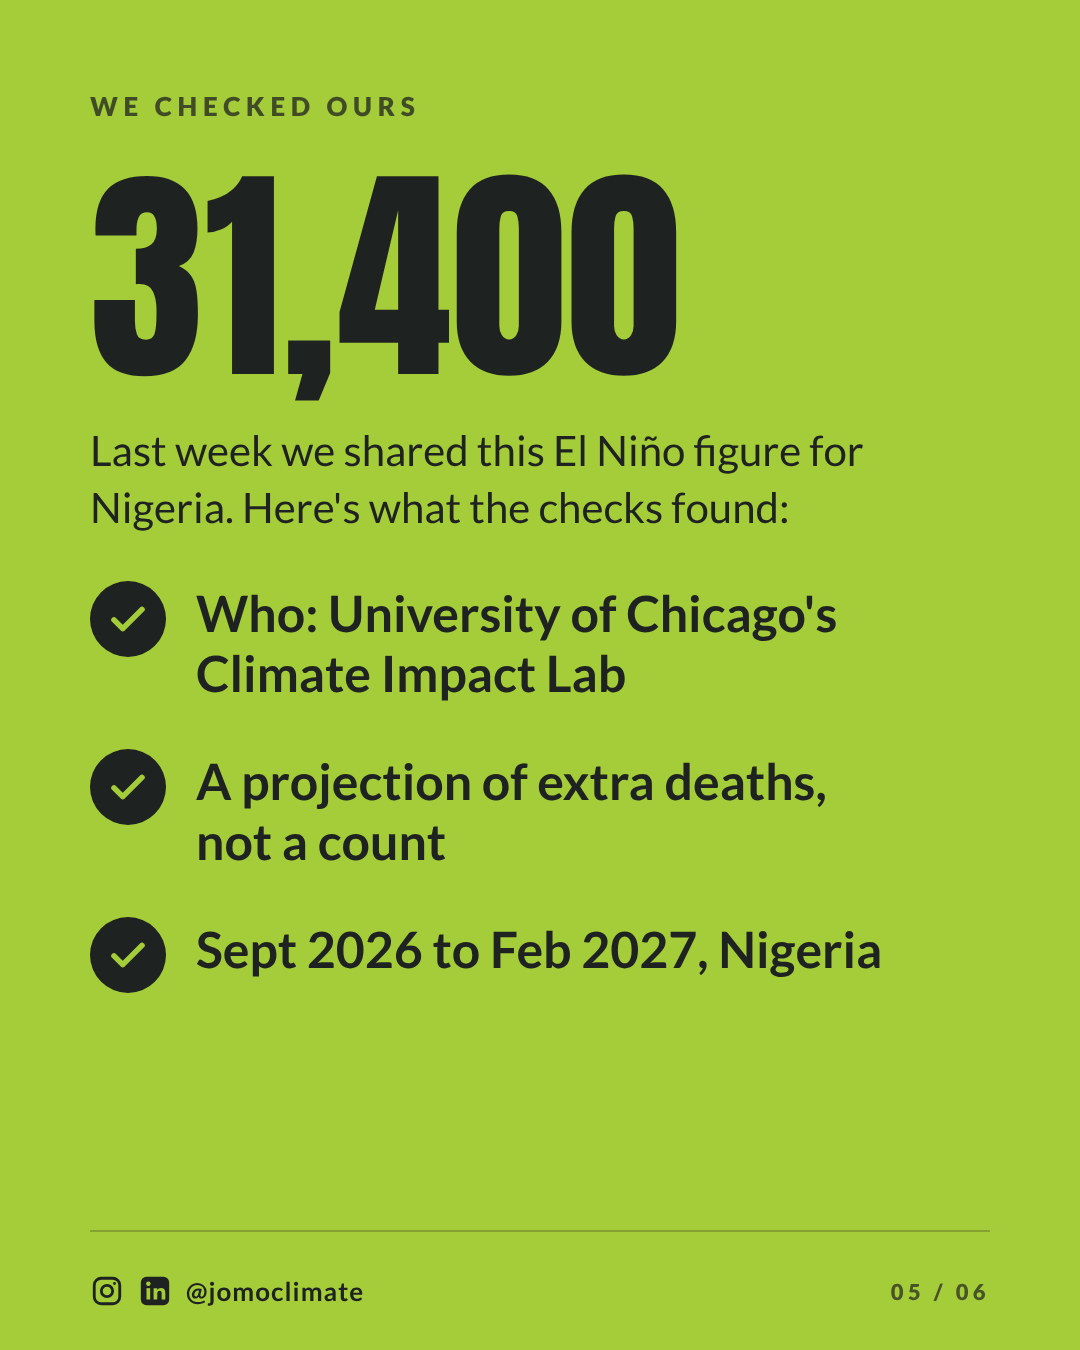
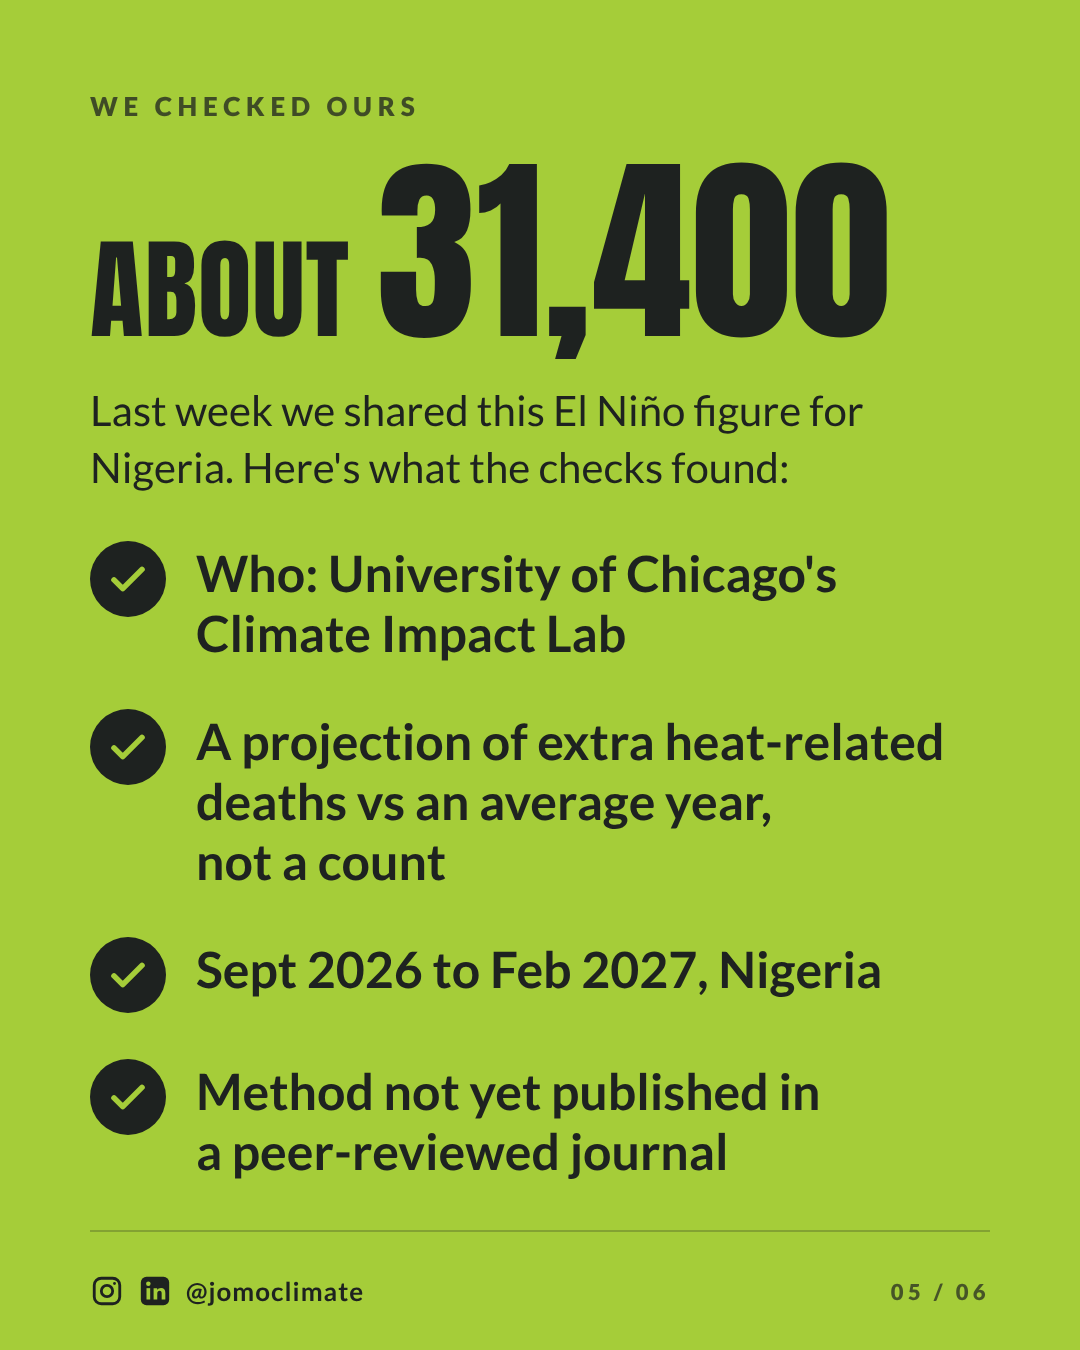
draft: week of 2026-10-26 fact-check fixes (in review)
Claude-Session: https://claude.ai/code/session_01F6NcUsFQ3PsVvfZiAxD4Cd

diff --git a/tools/week_1026.py b/tools/week_1026.py
@@ -89,7 +89,7 @@ write("w27-drain-x-16x9", pg(f"""
 # ===== 5. Wed 28: Source, please (Media and Information Literacy Week), 4:5 =====
 T = 6
 write("w28-source-01", pg(f"""
- <div class="label">Media and Information Literacy Week</div>
+ <div class="label">Global Media and Information Literacy Week</div>
  <div class="h" style="font-size:210px;margin-top:60px;line-height:.95">Source,<br><span class="acc">please.</span></div>
  <div class="body" style="margin-top:60px;max-width:880px;font-size:54px">3 checks before you share a climate stat.</div>
  {sprout(360, extra="right:-60px;bottom:150px;transform:rotate(-12deg)")}
@@ -107,12 +107,13 @@ write("w28-source-03", check(2, "Count or<br><span class='acc'>projection?</span
 write("w28-source-04", check(3, "When and<br>where?", "Check the date and the place. A photo from another year or another country can look like today.", "off"))
 write("w28-source-05", pg(f"""
  <div class="label">We checked ours</div>
- <div class="h" style="font-size:230px;margin-top:40px;line-height:1">31,400</div>
+ <div class="h" style="font-size:200px;margin-top:30px;line-height:1"><span style="font-size:110px">About </span>31,400</div>
  <div class="body" style="margin-top:30px;font-size:42px;max-width:880px">Last week we shared this El Ni&ntilde;o figure for Nigeria. Here's what the checks found:</div>
  <div style="margin-top:30px">
   {tick("Who: University of Chicago's<br>Climate Impact Lab")}
-  {tick("A projection of extra deaths,<br>not a count")}
+  {tick("A projection of extra heat-related<br>deaths vs an average year,<br>not a count")}
   {tick("Sept 2026 to Feb 2027, Nigeria")}
+  {tick("Method not yet published in<br>a peer-reviewed journal")}
  </div>
 """, "lime", 5, T))
 write("w28-source-06", pg(f"""
@@ -140,13 +141,13 @@ write("w29-oniwaya-02", pg(f"""
 """, "ink", 2, T))
 write("w29-oniwaya-03", pg(f"""
  <div class="label">What it took</div>
- <div class="brico" style="font-size:130px;margin-top:36px">Volunteers with gloves. <span style="color:{OFF}">That's it.</span></div>
- {photo(ONI % '11', 90, 650, 900, 550, "50% 40%", "border-radius:28px")}
+ <div class="brico" style="font-size:104px;margin-top:36px">Volunteers, gloves and rakes. <span style="color:{OFF}">That's it.</span></div>
+ {photo(ONI % '11', 90, 700, 900, 500, "50% 40%", "border-radius:28px")}
 """, "lime", 3, T))
 write("w29-oniwaya-04", pg(f"""
  <div class="label">Your turn</div>
  <div class="brico" style="font-size:118px;margin-top:40px">Which drain on <span style="color:{LIME}">your street</span> needs this?</div>
- <div class="body" style="margin-top:36px;font-weight:700;font-size:42px">YCEF applications close {CLOSE_FULL}.</div>
+ <div class="body" style="margin-top:36px;font-weight:700;font-size:42px">YCEF applications close {CLOSE_FULL} ({ZAMBIA}).</div>
  <div style="margin-top:28px;background:{LIME};color:{INK};font-weight:900;font-size:34px;padding:24px 28px;border-radius:16px;display:inline-block">{URL}</div>
  <img src="{LOGO_L}" style="position:absolute;left:90px;bottom:170px;width:340px">
 """, "ink", 4, T))
@@ -163,7 +164,7 @@ write("w29-cop31-01", pg(f"""
 write("w29-cop31-02", pg(f"""
  <div class="label">What is a COP?</div>
  <div class="h" style="font-size:136px;margin-top:60px">The yearly UN<br>climate<br>conference.</div>
- <div class="body" style="margin-top:60px;max-width:900px;font-size:50px">COP stands for &ldquo;Conference of the Parties&rdquo;: the countries that signed the UN climate convention. They meet once a year to agree on how the world responds to climate change.</div>
+ <div class="body" style="margin-top:60px;max-width:900px;font-size:50px">COP stands for &ldquo;Conference of the Parties&rdquo;: the countries that have joined the UN climate convention. They meet once a year to agree on how the world responds to climate change.</div>
 """, "lime", 2, T))
 write("w29-cop31-03", pg(f"""
  <div class="label">When and where</div>

diff --git a/content/posts/2026-10-29-oniwaya-before-after/captions.md b/content/posts/2026-10-29-oniwaya-before-after/captions.md
@@ -1,7 +1,7 @@
 # Captions: Oniwaya before and after
 Role: Copywriter (hook by Creative Director, visuals by Designer)
 
-Big idea (Creative Director): proof of what a few people with gloves can do on one street. Show the drain, not people to blame. Ends on YCEF with the new date. Reuses last week's unposted carousel; slide 3 now uses oniwaya-cleanup-11.jpg (the photo with the operator's confirmed age), and its text matches what the photo shows.
+Big idea (Creative Director): proof of what a few people with gloves can do on one street. Show the drain, not people to blame. Ends on YCEF with the new date. Reuses last week's unposted carousel; slide 3 now uses oniwaya-cleanup-11.jpg (the photo with the operator's confirmed age), and its text describes what the clean-up took (INDEX.csv shows volunteers with rakes as well as gloves).
 
 ### Thu 2026-10-29, 18:00 WAT · Instagram + Facebook · Impact proof
 Hook: ~~Blocked.~~ Cleaned up. One drain in Oniwaya.
@@ -10,7 +10,7 @@ Visual: 4-slide 4:5 carousel, `visuals/w29-oniwaya-01.png` to `w29-oniwaya-04.pn
 Caption — Instagram:
 Blocked. Cleaned up. One drain in Oniwaya. 🌱
 
-From our archive: a JOMO clean-up in Oniwaya. Volunteers with gloves cleaned up this drain. That's it.
+From our archive: a JOMO clean-up in Oniwaya. A few volunteers with gloves and rakes cleaned up this drain. That's it.
 
 A blocked drain is where rainwater has nowhere to go. Clearing one is a start.
 
@@ -23,7 +23,7 @@ YCEF is where you plan the bigger fix. Applications close Tue 3 Nov, 11:59 PM WA
 Caption — Facebook:
 Blocked. Cleaned up. One drain in Oniwaya. 🌱
 
-This is from our archive: a drain in Oniwaya, before and after a JOMO volunteer clean-up. Volunteers with gloves. That's it.
+This is from our archive: a drain in Oniwaya, before and after a JOMO volunteer clean-up. Volunteers with gloves and rakes. That's it.
 
 A blocked drain is visible and fixable, and it's where rainwater has nowhere to go.
 
@@ -37,7 +37,7 @@ Apply: https://jomoclimatechange.org/events?apply=ycef
 Alt text:
 - Slide 1: Cropped "before" photo of a roadside drain beside a concrete wall, full of plastic bags, bottles and weeds, tilted like a print with a "Before" tape. Text: "One drain · Oniwaya. Blocked." crossed out, then "Cleaned up."
 - Slide 2: Side-by-side photos of the same roadside drain beside a long wall under trees. Left, labelled "Before": the drain is packed with rubbish and weeds. Right, labelled "After": the drain is mostly clear, with a little water and some scattered litter. Label: "Oniwaya · From our archive".
-- Slide 3: Lime slide. "What it took. Volunteers with gloves. That's it." Photo of a volunteer in a yellow-green JOMO vest and red gloves, face hidden, pulling rubbish from a muddy drain.
-- Slide 4: Dark slide. "Your turn. Which drain on your street needs this? YCEF applications close Tue 3 Nov, 11:59 PM WAT." The link https://jomoclimatechange.org/events?apply=ycef, the white JOMO logo and @jomoclimate.
+- Slide 3: Lime slide. "What it took. Volunteers, gloves and rakes. That's it." Photo of a volunteer in a yellow-green JOMO vest and red gloves, face hidden, pulling rubbish from a muddy drain.
+- Slide 4: Dark slide. "Your turn. Which drain on your street needs this? YCEF applications close Tue 3 Nov, 11:59 PM WAT (12:59 AM Wed 4 Nov in Zambia)." The link https://jomoclimatechange.org/events?apply=ycef, the white JOMO logo and @jomoclimate.
 
 Sources: `assets/photos/events/INDEX.csv` (oniwaya-cleanup-01.jpg is one before-and-after image of the same roadside drain, as supplied; -11 is a volunteer clearing a drain). Both are from the 2020 archive (file names dated 2020) and are presented as "from our archive", never as recent. The clean-up date isn't confirmed, so no date is printed. Consent: content/consent-log.csv; -11's age confirmed by the operator on 2026-10-23. YCEF facts: `references/brand-guide.md`. No funding promise.

diff --git a/content/posts/2026-10-29-cop31-explainer/captions.md b/content/posts/2026-10-29-cop31-explainer/captions.md
@@ -10,7 +10,7 @@ Visual: 5-slide PDF carousel (4:5), `visuals/w29-cop31-01.png` to `w29-cop31-05.
 Caption — LinkedIn:
 COP31 is in 11 days. Here's what it is, in 5 slides.
 
-COP stands for "Conference of the Parties": the countries that have signed the UN Framework Convention on Climate Change. They meet once a year to agree how the world responds to climate change.
+COP stands for "Conference of the Parties": the countries (and the European Union) that are Parties to the UN Framework Convention on Climate Change. They meet once a year to agree how the world responds to climate change.
 
 COP31 runs from 9 to 20 November 2026 in Antalya, Türkiye.
 
@@ -24,7 +24,7 @@ What would you most like explained about COP31?
 
 Alt text:
 - Slide 1: Dark slide. "Climate, explained locally. COP31 is in 11 days. What it is, in 5 slides."
-- Slide 2: Lime slide. "What is a COP? The yearly UN climate conference. COP stands for 'Conference of the Parties': the countries that signed the UN climate convention. They meet once a year to agree on how the world responds to climate change."
+- Slide 2: Lime slide. "What is a COP? The yearly UN climate conference. COP stands for 'Conference of the Parties': the countries that have joined the UN climate convention. They meet once a year to agree on how the world responds to climate change."
 - Slide 3: Dark slide. "When and where: 9–20 Nov 2026, Antalya, Türkiye. The 31st meeting, so: COP31."
 - Slide 4: Light slide. "Why it matters on your street: Heat. Floods. Drains. Farms. Countries agree targets and money for cutting emissions and for adapting to a hotter climate. That shapes how places like Lagos and Lusaka prepare."
 - Slide 5: Dark slide. "Follow along. We'll explain COP31 in plain language: what gets decided, and what it could mean for Nigeria and Zambia." White JOMO logo.
@@ -39,7 +39,7 @@ Post 1:
 COP31 starts in 10 days. 🌍 Here's what it is, in 4 posts. 🧵
 
 Post 2:
-COP = "Conference of the Parties": the countries that signed the UN climate convention. They meet once a year to agree how the world responds to climate change.
+COP = "Conference of the Parties": the countries that have joined the UN climate convention. They meet once a year to agree how the world responds to climate change.
 
 Post 3:
 COP31 runs 9–20 Nov 2026 in Antalya, Türkiye. Countries negotiate targets and money for cutting emissions and for adapting to a hotter climate.
@@ -53,4 +53,4 @@ Alt text: Dark graphic with a lime leaf: "Climate, explained locally. COP31 star
 
 ---
 
-Sources: UNFCCC (what a COP is; COP31 dates and venue). The fact-checker must confirm 9–20 Nov 2026 and Antalya on an official UNFCCC or host page; the Trend Scout found them on Wikipedia only (https://en.wikipedia.org/wiki/2026_United_Nations_Climate_Change_Conference). Thu 29 Oct to Mon 9 Nov is 11 days; Fri 30 Oct is 10 days. The "we'll explain the outcome" line is a commitment: the operator approved COP explainers in the weekly plan.
+Sources: UNFCCC, The Road to Antalya: https://www.unfccc.int/cop31/the-road-to-antalya ; UNCCD event page ("COP 31 will be held in Antalya, Türkiye, from 9 to 20 November 2026"): https://www.unccd.int/index.php/events/other/2026-un-climate-change-conference-cop31 ; what a COP is: https://unfccc.int/process/bodies/supreme-bodies/conference-of-the-parties-cop Thu 29 Oct to Mon 9 Nov is 11 days; Fri 30 Oct is 10 days. The "we'll explain the outcome" line is a commitment: the operator approved COP explainers in the weekly plan.

diff --git a/content/posts/2026-10-28-source-please/captions.md b/content/posts/2026-10-28-source-please/captions.md
@@ -31,7 +31,7 @@ A climate number lands in the family WhatsApp group. Before you forward it, run 
 2. Is it a count or a projection? "Deaths" and "projected deaths" are not the same thing. Read the small print.
 3. When and where? Check the date and the place. A photo from another year or another country can look like today.
 
-We ran these checks on the figure we shared last week: about 31,400 extra heat-related deaths projected in Nigeria from September 2026 to February 2027. Who said it: the University of Chicago's Climate Impact Lab. Count or projection: a projection of extra deaths compared with an average year, not a count. When and where: Nigeria, Sept 2026 to Feb 2027.
+We ran these checks on the figure we shared last week: about 31,400 extra heat-related deaths projected in Nigeria from September 2026 to February 2027. Who said it: the University of Chicago's Climate Impact Lab. Count or projection: a projection of extra deaths compared with an average year, not a count, and the method isn't yet published in a peer-reviewed journal. When and where: Nigeria, Sept 2026 to Feb 2027.
 
 If you can't check it, don't share it yet. 🌱
 
@@ -42,11 +42,11 @@ The study: https://impactlab.org/research/451000-at-risk/
 #MILWeek #ClimateAction
 
 Alt text:
-- Slide 1: Dark slide. "Media and Information Literacy Week. Source, please. 3 checks before you share a climate stat." Tape: "Swipe".
+- Slide 1: Dark slide. "Global Media and Information Literacy Week. Source, please. 3 checks before you share a climate stat." Tape: "Swipe".
 - Slide 2: Lime slide. "Check 1 of 3. Who said it? Find the original: the study, the agency, the report. Not a screenshot of a screenshot." A large circled 1.
 - Slide 3: Dark slide. "Check 2 of 3. Count or projection? 'Deaths' and 'projected deaths' are not the same thing. Read the small print." A large circled 2.
 - Slide 4: Light slide. "Check 3 of 3. When and where? Check the date and the place. A photo from another year or another country can look like today." A large circled 3.
-- Slide 5: Lime slide. "We checked ours. 31,400. Last week we shared this El Niño figure for Nigeria. Here's what the checks found." Three ticks: "Who: University of Chicago's Climate Impact Lab"; "A projection of extra deaths, not a count"; "Sept 2026 to Feb 2027, Nigeria".
+- Slide 5: Lime slide. "We checked ours. About 31,400. Last week we shared this El Niño figure for Nigeria. Here's what the checks found." Four ticks: "Who: University of Chicago's Climate Impact Lab"; "A projection of extra heat-related deaths vs an average year, not a count"; "Sept 2026 to Feb 2027, Nigeria"; "Method not yet published in a peer-reviewed journal".
 - Slide 6: Dark slide. "Before you share. Can't check it? Don't share it yet. Keep this for the next viral climate stat in the group chat." White JOMO logo.
 
 Sources: UNESCO, Global Media and Information Literacy Week, 24 to 31 Oct: https://www.unesco.org/en/weeks/media-information-literacy (the 2026 theme isn't verified, so it isn't used). The 31,400 figure and its caveats are from `content/posts/2026-10-24-super-el-nino/review.md` (Climate Impact Lab, https://impactlab.org/research/451000-at-risk/). #MILWeek is a hashtag in common use; check its live use before posting.

diff --git a/content/posts/2026-10-31-world-cities-day/captions.md b/content/posts/2026-10-31-world-cities-day/captions.md
@@ -57,7 +57,7 @@ World Cities Day: liveable cities are built one street at a time.
 
 This year's theme is "Regenerating the City: Adequate Housing for All". From where we stand, regeneration often starts small: a drain that's cleared before the rain, waste that stops piling up, a corner where water no longer collects.
 
-That's the kind of work JOMO volunteers have done on Lagos streets since 2020, and it's why we built the Young Climate Educators Fellowship (YCEF): many young people want to fix the problems on their streets but don't know where to start. YCEF applications close Tue 3 Nov.
+JOMO has been youth-led since 2020, and community and market clean-ups like these are part of our work. It's also why we built the Young Climate Educators Fellowship (YCEF): many young people want to solve problems in their communities but don't know how to go about it or where to start. YCEF applications close Tue 3 Nov.
 
 What's one small change that made your street more liveable?
 
@@ -84,4 +84,4 @@ Alt text: Stock photo of a flooded street in Lekki, Lagos, with a man wading thr
 
 ---
 
-Sources: UN, World Cities Day (31 Oct; 2026 theme "Regenerating the City: Adequate Housing for All"): https://www.un.org/en/observances/cities-day. Stock photos: `assets/photos/web/SOURCES.csv` (Pexels License). "Youth-led since 2020" and "Lagos-born": `references/brand-guide.md` and `voice.md`. "Volunteers have done this on Lagos streets since 2020" rests on the 2020 Oniwaya clean-up archive (fact-checker to confirm Oniwaya is in Lagos, or soften). YCEF facts: brand guide.
+Sources: UN, World Cities Day (31 Oct; 2026 theme "Regenerating the City: Adequate Housing for All"): https://www.un.org/en/observances/cities-day. Stock photos: `assets/photos/web/SOURCES.csv` (Pexels License). "Youth-led since 2020" and clean-ups as past work: `references/brand-guide.md`. The YCEF reason is the operator's wording (brand guide). YCEF facts: brand guide.

diff --git a/content/posts/2026-10-27-rain-drain-x/captions.md b/content/posts/2026-10-27-rain-drain-x/captions.md
@@ -16,4 +16,4 @@ Before the next downpour: is the drain outside your gate clear? 🌱
 
 Alt text: A volunteer in a yellow-green JOMO vest and red gloves, seen from above with the face hidden, clearing plastic and mud from a drain. Text: "Climate, explained locally. Still raining in Lagos? Is your drain ready?" Label: "Oniwaya clean-up · From our archive".
 
-Sources: NiMet 2026 Seasonal Climate Prediction, as reported by NAN on 2026-02-11: https://nannews.ng/nimet-predicts-longer-than-normal-rainy-season-in-13-states/ (Lagos among states with a delayed end to the season; fact-checker to confirm the wording). Photo: consent log, age confirmed by the operator on 2026-10-23.
+Sources: NiMet 2026 Seasonal Climate Prediction, as reported by NAN on 2026-02-11: https://nannews.ng/nimet-predicts-longer-than-normal-rainy-season-in-13-states/ (NAN: "a delayed end of season is expected in Lagos…"; confirmed 2026-10-24; also https://guardian.ng/news/lagos-12-other-states-to-experience-longer-rainfall-in-2026-nimet/). Photo: consent log, age confirmed by the operator on 2026-10-23.

diff --git a/content/posts/2026-10-26-ycef-extension/review.md b/content/posts/2026-10-26-ycef-extension/review.md
@@ -1,0 +1,12 @@
+# Review: YCEF deadline extended · Mon 2026-10-26 · Instagram + Facebook carousel, Instagram story, LinkedIn, X
+
+## Fact-check (Fact-checker)
+
+| Claim | Source | Verdict |
+|---|---|---|
+| New close Tue 3 Nov 2026, 11:59 PM WAT; 12:59 AM Wed 4 Nov in Zambia (CAT, UTC+2) | `references/brand-guide.md` (operator, 2026-10-24) | Verified |
+| "Closes today" struck through (the old close was Mon 26 Oct); extended by 8 days; stamp "8 days left" | Brand guide; arithmetic | Verified |
+| 50 fellows, 3 virtual weekends, Weekend 1 Fri 13 Nov 2026, 18+, students and grassroots volunteers, Nigeria and Zambia; sustenance engineering; no funding guarantee | Brand guide | Verified |
+| Why JOMO built YCEF (LinkedIn) | Brand guide (operator's words, 2026-10-24) | Verified |
+| Photos oniwaya-02, -11, -08 "from our archive" | `content/consent-log.csv`, `assets/photos/events/INDEX.csv` | Verified |
+| Apply link | Operator, 2026-10-23 | Responds; the form is rendered by JavaScript, so the new date couldn't be seen. **Operator to confirm the page shows Tue 3 Nov** |

diff --git a/content/posts/2026-10-29-cop31-explainer/review.md b/content/posts/2026-10-29-cop31-explainer/review.md
@@ -1,0 +1,11 @@
+# Review: COP31 explainer · Thu 2026-10-29 LinkedIn, Fri 2026-10-30 X thread
+
+## Fact-check (Fact-checker)
+
+| Claim | Source | Verdict |
+|---|---|---|
+| COP31: 9–20 Nov 2026, Antalya, Türkiye | https://www.unccd.int/index.php/events/other/2026-un-climate-change-conference-cop31 ; UNFCCC "The Road to Antalya" https://www.unfccc.int/cop31/the-road-to-antalya ; https://unric.org/en/unfccc-cop31-the-road-to-antalya/ | Verified |
+| "In 11 days" (Thu 29 Oct), "in 10 days" (Fri 30 Oct) | Arithmetic to Mon 9 Nov | Verified |
+| COP = Conference of the Parties; meets yearly; 31st session | https://unfccc.int/process/bodies/supreme-bodies/conference-of-the-parties-cop | Verified |
+| Parties = "the countries that signed the convention" | Same page: Parties ratified or acceded; the EU is also a Party | **Fixed:** "have joined" on the slide and on X; LinkedIn now says "the countries (and the European Union) that are Parties to the UNFCCC" |
+| Lagos and Lusaka prepare for heat and floods | Framing | OK |

diff --git a/content/posts/2026-10-28-source-please/review.md b/content/posts/2026-10-28-source-please/review.md
@@ -1,0 +1,10 @@
+# Review: Source, please · Wed 2026-10-28 · Instagram + Facebook carousel
+
+## Fact-check (Fact-checker)
+
+| Claim | Source | Verdict |
+|---|---|---|
+| Global Media and Information Literacy Week, 24 to 31 Oct | https://www.unesco.org/en/weeks/media-information-literacy | Verified (no 2026 theme stated, so none is used) |
+| About 31,400 extra heat-related deaths projected in Nigeria, Sept 2026 to Feb 2027, vs an average year; Climate Impact Lab, University of Chicago; method not yet in a peer-reviewed journal | https://impactlab.org/research/451000-at-risk/ ; `2026-10-24-super-el-nino/review.md` | Verified. **Fixed:** slide 5 now says "About", "heat-related… vs an average year" and adds the peer-review tick; the Facebook caption adds the peer-review caveat |
+| "Last week we shared this figure" | El Niño calendar rows | True only once the 24 and 25 Oct posts go out. **Set those rows to Posted before Wed** |
+| #MILWeek in use | — | Check live use before posting |

diff --git a/content/posts/2026-10-31-world-cities-day/review.md b/content/posts/2026-10-31-world-cities-day/review.md
@@ -1,0 +1,11 @@
+# Review: World Cities Day · Sat 2026-10-31 · Instagram + Facebook carousel, LinkedIn, X
+
+## Fact-check (Fact-checker)
+
+| Claim | Source | Verdict |
+|---|---|---|
+| World Cities Day is 31 Oct; 2026 theme "Regenerating the City: Adequate Housing for All" | https://www.un.org/en/observances/cities-day | Verified |
+| Stock photos: Lekki, Lagos (slide 1, X); location not stated (slide 3) | `assets/photos/web/SOURCES.csv`; Pexels pages | Verified, labelled |
+| LinkedIn photo: JOMO volunteers, from our archive (oniwaya-02) | INDEX.csv; consent log | Verified |
+| "JOMO volunteers have done this on Lagos streets since 2020" | The brand guide supports "youth-led since 2020" and clean-ups as past work; Oniwaya's location isn't on file | **Fixed:** now "JOMO has been youth-led since 2020, and community and market clean-ups like these are part of our work" |
+| Why YCEF | Brand guide (operator's wording) | **Fixed:** now uses the operator's words |

diff --git a/content/posts/2026-10-27-rain-drain-x/review.md b/content/posts/2026-10-27-rain-drain-x/review.md
@@ -1,0 +1,9 @@
+# Review: Still raining in Lagos? · Tue 2026-10-27 · X
+
+## Fact-check (Fact-checker)
+
+| Claim | Source | Verdict |
+|---|---|---|
+| NiMet's 2026 seasonal forecast said Lagos's rainy season would end later than usual | https://nannews.ng/nimet-predicts-longer-than-normal-rainy-season-in-13-states/ (11 Feb 2026: "a delayed end of season is expected in Lagos…"); https://guardian.ng/news/lagos-12-other-states-to-experience-longer-rainfall-in-2026-nimet/ | Verified (secondary sources; the NiMet page wouldn't open) |
+| Photo oniwaya-cleanup-11.jpg, "from our archive" | Consent log; age confirmed by the operator on 2026-10-23 | Verified |
+| Oniwaya is in Lagos (implied only by the photo sitting next to the Lagos question) | Not in the repo; a web listing places Oniwaya in Agege, Lagos | Unverified; low risk because the post doesn't state it. **Operator to confirm** |

diff --git a/content/posts/2026-10-29-oniwaya-before-after/review.md b/content/posts/2026-10-29-oniwaya-before-after/review.md
@@ -1,0 +1,10 @@
+# Review: Oniwaya before and after · Thu 2026-10-29 · Instagram + Facebook carousel
+
+## Fact-check (Fact-checker)
+
+| Claim | Source | Verdict |
+|---|---|---|
+| One roadside drain in Oniwaya, before and after a JOMO clean-up, from our archive | `INDEX.csv` (oniwaya-cleanup-01.jpg, a single before-and-after image); consent log | Verified. No date is printed; the year is internal only |
+| "Volunteers with gloves. That's it." | INDEX.csv shows volunteers with rakes as well as gloves | **Fixed:** now "Volunteers, gloves and rakes" on slide 3 and "gloves and rakes" in both captions |
+| Close Tue 3 Nov, 11:59 PM WAT | Brand guide | Verified. **Fixed:** slide 4 now gives the Zambia time too |
+| YCEF eligibility, sustenance engineering, no funding guarantee | Brand guide | Verified |
